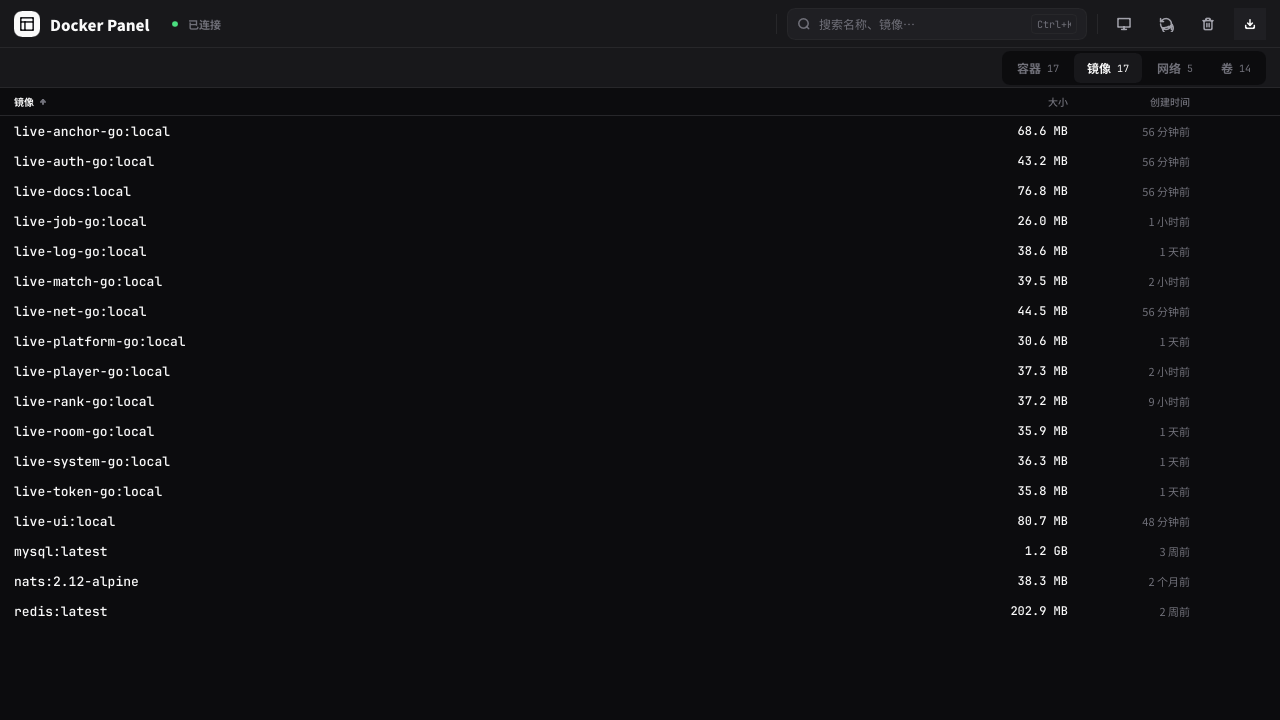
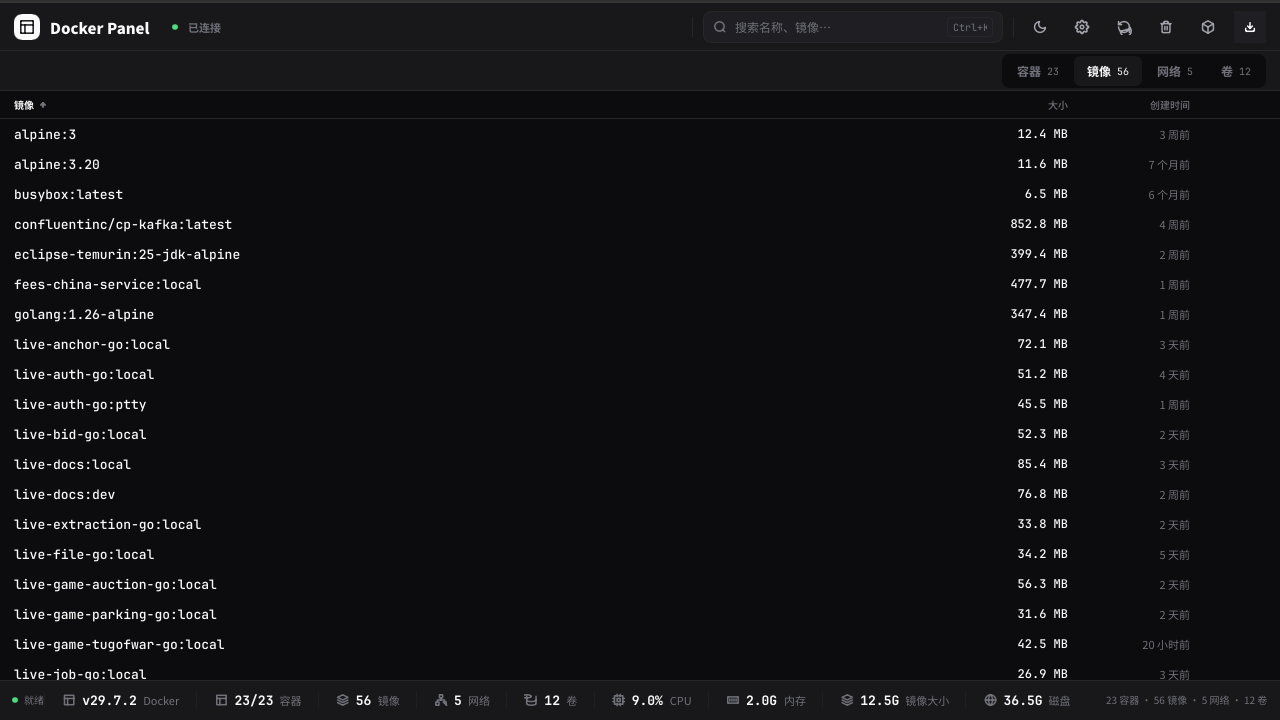
docs: 界面预览四张截图按当前版本重拍
- 用 agkit shot --app docker-panel 按 xdg app_id 定位窗口截取（1280x720 / 深色主题 / 零弹窗）
- 抽屉与清理弹窗状态用临时状态注入构造，未注入键鼠事件；注入代码已移除
- 仅裁去窗口标题栏，未做内容合成或标注；README 截图说明同步写清

diff --git a/CHANGELOG.md b/CHANGELOG.md
@@ -22,6 +22,7 @@
 - **修正文档与实现不一致的三处**：`src/log_status.rs` 实际定义 **4 条**日志状态文案（重连中 / 已恢复 / 已停止 / 洪峰抽样），README、`docs/architecture.md`、`docs/arch/threading.md` 均写「3 条」，四态表还漏了「洪峰抽样」行；`src/config.rs` 文件头注释写「7 个固定字段」，实际 `AppConfig` 为 **15 个**；`THIRD-PARTY-NOTICES.md` 的复核落款停在 0.6.0，已改为随 `Cargo.lock` 复核。
 - **文档补「第一次贡献」端到端流程，并把自动重启机制同步到新实现**：`CONTRIBUTING.md` 新增从 fork、切分支、过四项门禁到发起 PR 的完整命令序列，附新手最常卡住的五处（PR 目标选 `develop`、不要从 `master` 切分支、提交信息格式、文档同步义务、分支落后如何处理）与 Gitee 侧的差异说明。`docs/configuration.md` 与 `docs/arch/threading.md` 原先把自动重启写成「3s 后启动新二进制并退出」，与修复后的实现不符（`5c63c0e` 起）——现在改为「3s 倒计时仅退出事件循环，再由 `main` 退出流程先 `release_then` 释放单实例锁、后经 launcher 延时 2s `exec`」，并补上为什么顺序不能反；同时修正 `src/ui_update/update.rs:93` 这处因该修复而失效的行号引用。
 - **新增路线图，文档导航全线接入**：`docs/roadmap.md` 只写三类内容——当前阶段（已交付能力）、候选方向（批量操作 / Compose 导入导出 / 定时清理 / 远程连接等，**明确标注未排期、不构成承诺**）、明确不做（非 Wayland 后端适配、Electron 外壳、GPU 渲染、定时兜底轮询、守护进程管理、遥测）。README 文档地图、AGENTS 文档导航、`docs/agents-rules.md` §6.2 文档清单与 §6.1 触发表（新增「功能增删 / 方向调整」事件）、两站 Wiki 的主仓文档表与侧栏全部接入；`scripts/check-docs.py` 的受控清单由 18 份扩到 19 份。
+- **界面预览截图按当前版本重拍**：四张图（容器台账 / 镜像列表 / 右侧抽屉 / 清理弹窗）原为 2026-10-25 所拍，此后 `ui/` 有 20 个提交（磁盘列阈值、列表外壳统一、采样过期可见化、更新弹窗精简等）已与界面不符。本轮统一由 `agkit shot --app docker-panel` 按 xdg app_id 定位窗口截取（1280x720，深色主题，零弹窗），仅裁去窗口标题栏，未做内容合成或标注；README 截图说明同步写清这一点。
 - **全站文档版面重排，并新增可执行的排版规范**：新增 `docs/style-guide.md`（页头三件套、编号章节、五种提示块口径、表格优先、折叠口径、页脚导航、两站语法白名单）与 `scripts/check-docs.py`（18 份受控文档 + Wiki 页面的版面 lint：栅栏配对、折叠配对、页内锚点、相对链接、禁用写法、占位符、R2 正文行数、章节编号连续）。README、四份社区文档、四份用户向文档、五份实现向文档与两站 Wiki 六页全部按规范重排：长清单与结构树改折叠、并列信息改表格、关键约束用提示块前置、每节结论先行、页脚补三栏导航。技术事实（命令、路径、行号、报错原文、常量、版本号）逐条回查源码与 HEAD，未作改动。
 
 ## [0.7.14] - 2026-11-15

diff --git a/README.md b/README.md
@@ -44,7 +44,7 @@ Rust 单二进制 · Slint 原生 GUI · 纯软件渲染
 | **右侧抽屉（详情 / 日志 / 环境）** | **清理弹窗** |
 | ![右侧抽屉](assets/screenshots/drawer.png) | ![清理弹窗](assets/screenshots/cleanup.png) |
 
-<sub>截图来自 Linux + Wayland + 深色主题，由 `agkit shot --app docker-panel` 按 xdg app_id 定位窗口截取（见 [AGENTS.md](AGENTS.md) R1），未做后期合成。</sub>
+<sub>截图来自 Linux + Wayland + 深色主题，由 `agkit shot --app docker-panel` 按 xdg app_id 定位窗口截取（见 [AGENTS.md](AGENTS.md) R1）；仅裁去窗口标题栏，未做内容合成、标注或调色。</sub>
 
 ## 2. 功能特性
 
